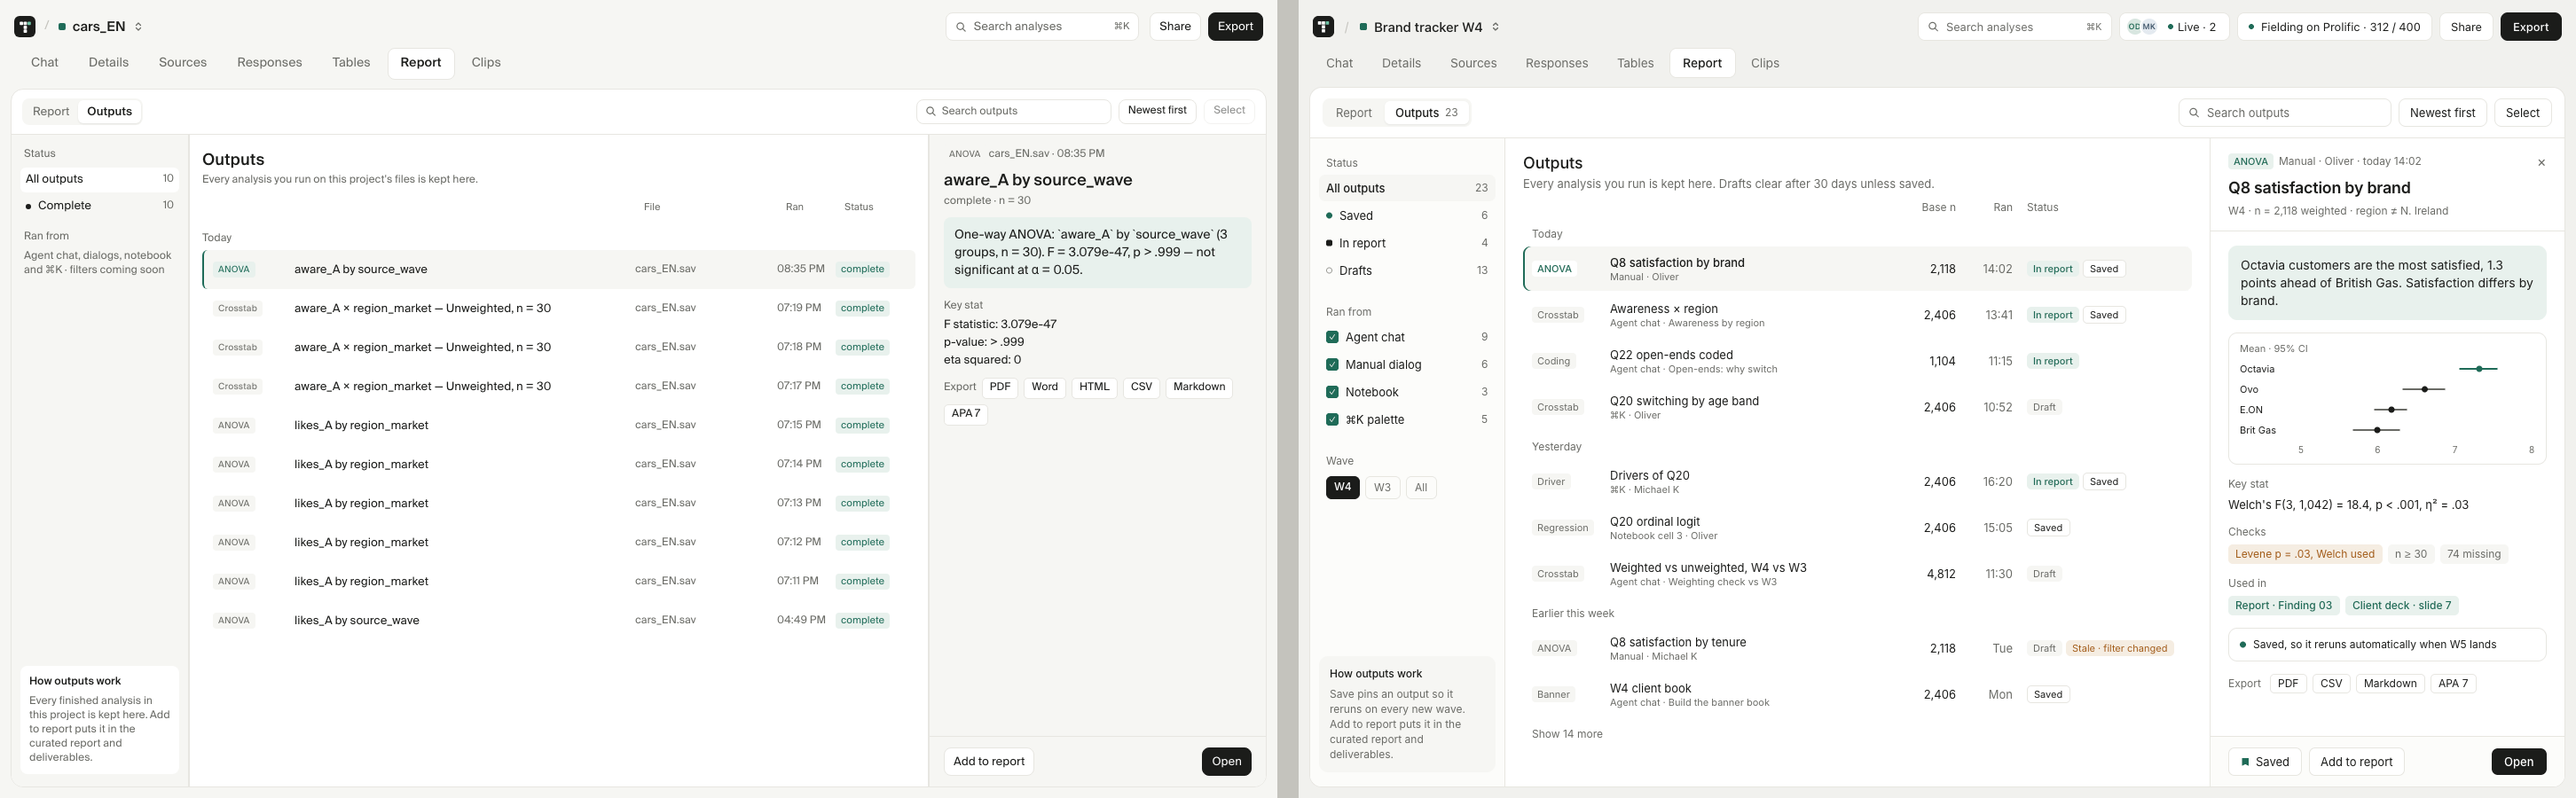
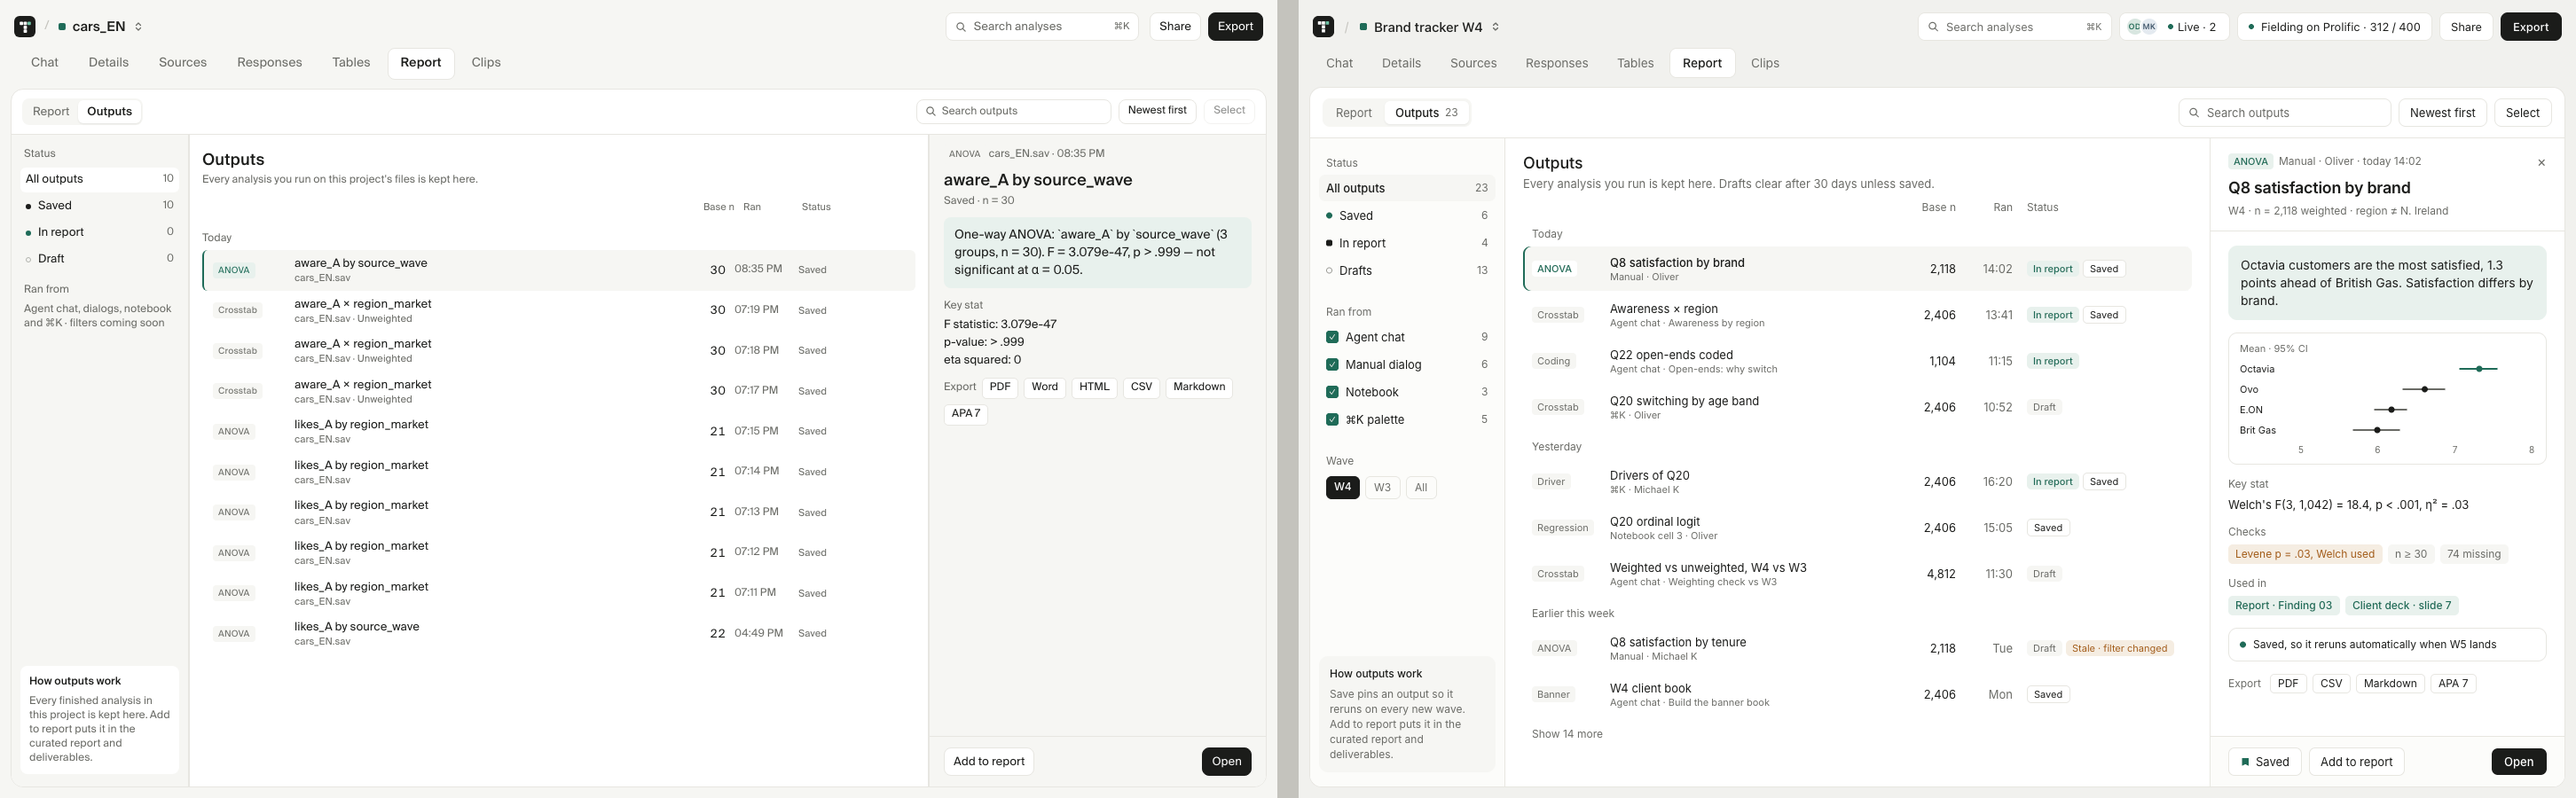
Outputs: Base n, In report/Saved/Draft chips, and weighting in the subtitle.
compare.png: design/paper/6b-report-outputs/compare.png

diff --git a/src/components/flow/report-outputs.tsx b/src/components/flow/report-outputs.tsx
@@ -7,6 +7,7 @@ import { Segmented } from '@/components/ui/segmented';
 import { Skeleton } from '@/components/ui/rest';
 import { flowJson } from '@/lib/flow-api';
 import { OutputPage } from '@/components/flow/output-page';
+import { readPins } from '@/components/flow/run-document';
 import { downloadExport } from '@/components/flow/survey-screens';
 import {
   documentApa,
@@ -16,6 +17,7 @@ import {
 } from '@/components/flow/run-document';
 import {
   baseCount,
+  runState,
   clockLabel,
   dayLabel,
   metricLines,
@@ -97,11 +99,21 @@ export function ReportOutputs({
         return outputRuns(page.runs || []).map(run => ({ ...run, file: file.name }));
       })
     )
-      .then(pages => {
+      .then(async pages => {
         if (!live) return;
-        const next = pages
+        const sorted = pages
           .flat()
           .sort((left, right) => right.created_at.localeCompare(left.created_at));
+        const next = await Promise.all(
+          sorted.map(async (run, index) => {
+            if (run.base != null || index >= 40) return run;
+            const full = await flowJson<Record<string, unknown>>(
+              `/datasets/analysis-runs/${run.id}`
+            ).catch(() => null);
+            return full ? { ...run, base: baseCount(full) } : run;
+          })
+        );
+        if (!live) return;
         setRuns(next);
         setSelectedId(current =>
           next.some(run => run.id === current) ? current : next[0]?.id || ''
@@ -145,16 +157,36 @@ export function ReportOutputs({
     };
   }, [selectedId]);
 
-  const counts = useMemo(() => statusCounts(runs), [runs]);
+  const pinnedRuns = useMemo(
+    () => new Set(readPins(projectId).map(pin => pin.runId)),
+    // Pins are read again whenever the run list changes.
+    // eslint-disable-next-line react-hooks/exhaustive-deps
+    [projectId, runs]
+  );
+  const stateOf = (run: OutputRun) => runState(run.status, pinnedRuns.has(run.id));
+  const counts = useMemo(() => {
+    const order = ['Saved', 'In report', 'Draft'] as const;
+    return order.map(status => ({
+      status: status as string,
+      count: runs.filter(
+        run => stateOf(run) === status || (status === 'Saved' && stateOf(run) === 'In report')
+      ).length,
+    }));
+    // eslint-disable-next-line react-hooks/exhaustive-deps
+  }, [runs, pinnedRuns]);
   const visible = useMemo(() => {
     const needle = query.trim().toLowerCase();
     const matched = runs.filter(run => {
-      if (status !== 'all' && run.status !== status) return false;
+      if (status !== 'all') {
+        const state = stateOf(run);
+        if (status === 'Saved' ? state === 'Draft' : state !== status) return false;
+      }
       if (!needle) return true;
       return `${run.title} ${run.op}`.toLowerCase().includes(needle);
     });
     return oldest ? [...matched].reverse() : matched;
-  }, [oldest, query, runs, status]);
+    // eslint-disable-next-line react-hooks/exhaustive-deps
+  }, [oldest, query, runs, status, pinnedRuns]);
   const groups = useMemo(() => {
     const order: string[] = [];
     const buckets = new Map<string, OutputRun[]>();
@@ -288,7 +320,7 @@ export function ReportOutputs({
             >
               <span>
                 <i data-status={item.status} />
-                {item.status[0].toUpperCase() + item.status.slice(1)}
+                {item.status}
               </span>
               <span>{item.count}</span>
             </Button>
@@ -313,7 +345,7 @@ export function ReportOutputs({
           </div>
           <div className="outputs-cols">
             <span />
-            <span>File</span>
+            <span>Base n</span>
             <span>Ran</span>
             <span>Status</span>
           </div>
@@ -336,11 +368,21 @@ export function ReportOutputs({
                     <span className="outputs-kind">{kindLabel(run.op)}</span>
                     <span className="outputs-title">
                       <strong>{run.title}</strong>
+                      <span>{[run.file, run.weighting].filter(Boolean).join(' · ')}</span>
                     </span>
-                    <span className="outputs-file">{run.file || '—'}</span>
+                    <span className="outputs-base">
+                      {run.base != null ? run.base.toLocaleString('en-GB') : '—'}
+                    </span>
                     <span className="outputs-time">{clockLabel(run.created_at)}</span>
-                    <span className="outputs-status" data-status={run.status}>
-                      {run.status}
+                    <span className="outputs-states">
+                      <span className="outputs-status" data-state={stateOf(run)}>
+                        {stateOf(run)}
+                      </span>
+                      {stateOf(run) === 'In report' ? (
+                        <span className="outputs-status" data-state="Saved">
+                          Saved
+                        </span>
+                      ) : null}
                     </span>
                   </Button>
                 ))}
@@ -365,7 +407,13 @@ export function ReportOutputs({
                 </p>
                 <h2>{selected.title}</h2>
                 <p className="flow-muted outputs-detail-sub">
-                  {[selected.status, base != null ? `n = ${base}` : ''].filter(Boolean).join(' · ')}
+                  {[
+                    stateOf(selected),
+                    base != null || selected.base != null ? `n = ${base ?? selected.base}` : '',
+                    selected.weighting,
+                  ]
+                    .filter(Boolean)
+                    .join(' · ')}
                 </p>
                 {detailPhase === 'loading' ? <Skeleton className="outputs-skeleton" /> : null}
                 {detailPhase === 'error' ? <p className="flow-error">{exportError}</p> : null}

diff --git a/src/components/flow/report-output-runs.ts b/src/components/flow/report-output-runs.ts
@@ -5,7 +5,35 @@ export type OutputRun = {
   created_at: string;
   status: string;
   file?: string;
+  base?: number | null;
+  weighting?: string;
 };
+
+/** "aware_A × region — Unweighted, n = 30" → title, weighting note, and base. */
+export function splitRunTitle(raw: string): {
+  title: string;
+  weighting: string;
+  base: number | null;
+} {
+  const [head, ...rest] = raw.split(' — ');
+  const tail = rest.join(' — ');
+  const match = tail.match(/n\s*=\s*([\d,]+)/i);
+  const weighting = tail
+    .replace(/,?\s*n\s*=\s*[\d,]+/i, '')
+    .replace(/[,\s]+$/, '')
+    .trim();
+  return {
+    title: head.trim(),
+    weighting,
+    base: match ? Number(match[1].replace(/,/g, '')) : null,
+  };
+}
+
+/** The chip a run shows: In report when pinned, Saved once complete, otherwise Draft. */
+export function runState(status: string, pinned: boolean): 'In report' | 'Saved' | 'Draft' {
+  if (pinned) return 'In report';
+  return status === 'complete' ? 'Saved' : 'Draft';
+}
 
 export function outputRuns(rows: unknown[]): OutputRun[] {
   const runs: OutputRun[] = [];
@@ -15,13 +43,15 @@ export function outputRuns(rows: unknown[]): OutputRun[] {
     const id = String(record.id || '');
     const op = String(record.op || '');
     if (!id || !op) continue;
-    const title = String(record.title || '').trim() || op.replaceAll('_', ' ');
+    const split = splitRunTitle(String(record.title || '').trim() || op.replaceAll('_', ' '));
     runs.push({
       id,
-      title,
+      title: split.title,
       op,
       created_at: String(record.created_at || ''),
       status: String(record.status || 'complete'),
+      base: split.base,
+      weighting: split.weighting,
     });
   }
   return runs;

diff --git a/src/app/flow/flow.css b/src/app/flow/flow.css
@@ -9163,3 +9163,60 @@ select.flow-input {
   font-size: 11px;
   line-height: 15px;
 }
+
+.outputs-cols,
+.outputs-shell .outputs-row {
+  grid-template-columns: 82px minmax(0, 1fr) 64px 56px 128px;
+}
+
+.outputs-cols {
+  grid-template-columns: minmax(0, 1fr) 64px 56px 128px;
+}
+
+.outputs-cols span:nth-child(2),
+.outputs-base {
+  text-align: right;
+}
+
+.outputs-title {
+  display: flex;
+  flex-direction: column;
+  min-width: 0;
+}
+
+.outputs-title > span {
+  overflow: hidden;
+  text-overflow: ellipsis;
+  white-space: nowrap;
+  color: var(--color-muted);
+  font-size: 11px;
+}
+
+.outputs-base {
+  font-size: 13px;
+  font-variant-numeric: tabular-nums;
+}
+
+.outputs-states {
+  display: flex;
+  gap: 4px;
+}
+
+.outputs-status[data-state='Saved'] {
+  background: transparent;
+  color: var(--color-muted);
+}
+
+.outputs-status[data-state='Draft'] {
+  background: var(--color-well);
+  color: var(--color-muted);
+}
+
+.outputs-filter i[data-status='In report'] {
+  background: var(--color-accent);
+}
+
+.outputs-filter i[data-status='Draft'] {
+  border: 1.5px solid #b0b2ac;
+  background: transparent;
+}

diff --git a/src/components/flow/report-output-runs.test.ts b/src/components/flow/report-output-runs.test.ts
@@ -30,3 +30,26 @@ describe('report outputs', () => {
     expect(baseCount({})).toBeNull();
   });
 });
+
+describe('output titles and states', () => {
+  it('moves weighting and base out of the title', () => {
+    const { splitRunTitle } = jest.requireActual('./report-output-runs');
+    expect(splitRunTitle('aware_A × region_market — Unweighted, n = 30')).toEqual({
+      title: 'aware_A × region_market',
+      weighting: 'Unweighted',
+      base: 30,
+    });
+    expect(splitRunTitle('likes_A by region')).toEqual({
+      title: 'likes_A by region',
+      weighting: '',
+      base: null,
+    });
+  });
+
+  it('reads In report, Saved, or Draft from real state', () => {
+    const { runState } = jest.requireActual('./report-output-runs');
+    expect(runState('complete', true)).toBe('In report');
+    expect(runState('complete', false)).toBe('Saved');
+    expect(runState('failed', false)).toBe('Draft');
+  });
+});

diff --git a/design/paper/PROGRESS.md b/design/paper/PROGRESS.md
@@ -82,7 +82,7 @@ Each folder should contain `screen.png` (Paper, 1x) and `screen.tsx` (Paper `get
 - [x] **4e Weighting modal** (`97E-0`, `4e-weighting`) — **matched**, wired, rebuilt from the export: lead, title, and copy, current file versus new weighted file cards, the nothing-is-overwritten note, a Variable · code table grouped by variable with inline target inputs and capped rows in warn, a well strip with Efficiency, Effective base, Weight range, and Converged, and a footer with + Add target, Load targets from, Cap, Cancel, and Save as new file. `compare.png` differs in data: no rake has run yet.
 - [x] **4f Run ANOVA modal** (`CJO-0`, `4f-anova`) — **matched**, wired, restyled to the export: header with the Form/Code segment, a tinted form pane (dependent, factor, a post-hoc segment, Report checks), a result pane (live line, accent summary, group and source tables, pairs), and a footer with the syntax line, Copy, Ask agent to explain, Add to report, Cancel, and Run. `compare.png` differs in data and in the means plot and filter row, which the API does not return.
 - [x] **5b Tables chart** (`1E0U-0`, `5b-tables-chart`) — **matched**, wired, rebuilt from the export: a title (y by x) with base, a Table/Chart switch, legend and fit label, a gridded plot with axis ticks, axis captions, an Other tables strip that opens each saved table, and a settings pane with icon chart types, labelled X, Y, and Weight rows, switches for regression line and jitter, filter chips with + Add, and an Export PNG block. There is no Colour by and no hover card, because the chart route returns no categories or row ids. `compare.png` differs in data.
-- [x] **6b Report outputs** (`17SM-0`, `6b-report-outputs`) — **matched**, wired, rebuilt from the export: a top bar with the Report/Outputs switch, search, Newest first, and Select (coming soon); a Status filter column with Ran-from (coming soon) and How outputs work; day-grouped rows with a kind badge, title, file, time, and status; and a detail pane with the accent summary, Key stat, export chips (PDF, Word, HTML, CSV, Markdown, APA 7), Add to report, and Open. Clicking a row selects it; Open or a double click opens the run page. `compare.png` differs in data and in the means chart, Checks, and Used in, which the run record does not hold.
+- [x] **6b Report outputs** (`17SM-0`, `6b-report-outputs`) — **matched**, wired, rebuilt from the export: a top bar with the Report/Outputs switch, search, Newest first, and Select (coming soon); a Status filter column with Ran-from (coming soon) and How outputs work; day-grouped rows with a kind badge, title, file, time, and status; and a detail pane with the accent summary, Key stat, export chips (PDF, Word, HTML, CSV, Markdown, APA 7), Add to report, and Open. Clicking a row selects it; Open or a double click opens the run page. Rows show Base n (from the title, else the run record) and chips from real state: In report when pinned, Saved when complete, Draft otherwise. The weighting note moves from the title into the subtitle. `compare.png` differs in data and in the means chart, Checks, and Used in, which the run record does not hold.
 - [x] **6c Output one-way ANOVA** (`1AYL-0`, `6c-anova-output`) — **matched**, wired, rebuilt from the export: a breadcrumb toolbar with Rerun, Ask agent, Comments, Copy APA 7, Add to report, and a dark Export with formats; kind, Saved, and In report badges, a 32px title, and a meta line; an accent Answer card; result tables with the means plot beside the first; and side cards for Used in, Versions (auto-rerun coming soon), Script with Copy, and Traced to n respondents. `compare.png` differs in data.
 - [x] **6d Add to report** (`1C8L-0`, `6d-add-to-report`) — **matched**, wired, rebuilt from the export: Destination (section and position), a deliverables list (Client deck, Topline, and Banner book disabled with its reason), an editable finding card with the citation chip, a Keep this finding switch, and a footer. The pin is stored for this browser, as before. `compare.png` differs in data.
 - [x] **6e Output comments** (`1E29-0`, `6e-comments`) — **matched**, wired. Comments opens the 368px panel on the output page: open count, threads with avatar, name, and time, Resolve, indented replies, a Reply bar, and a focused composer with Comment. Posting, replying (parent_id), and resolving use the existing API. Checked by posting a comment and a reply on the cars_EN ANOVA. `compare.png` differs in data and in @-mention chips, anchored cell markers, and the All filter, which are not in the API.
